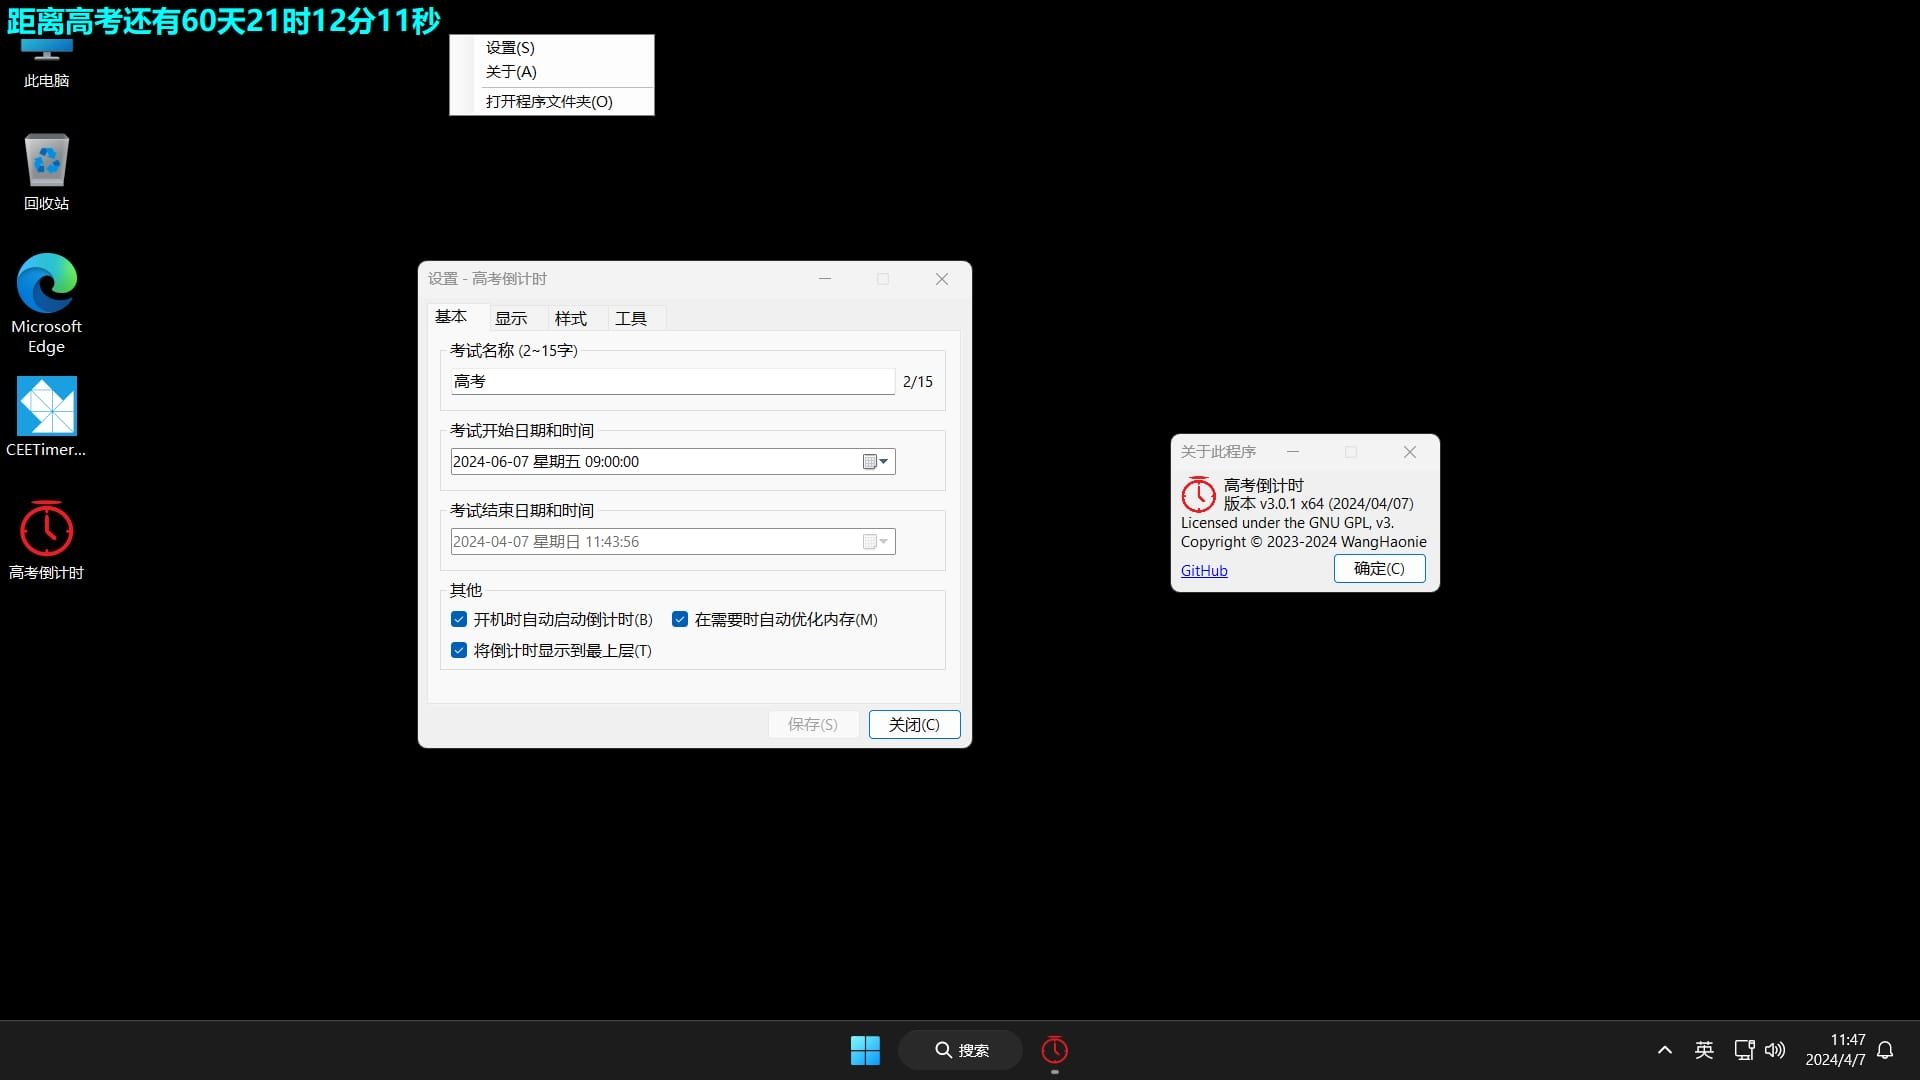
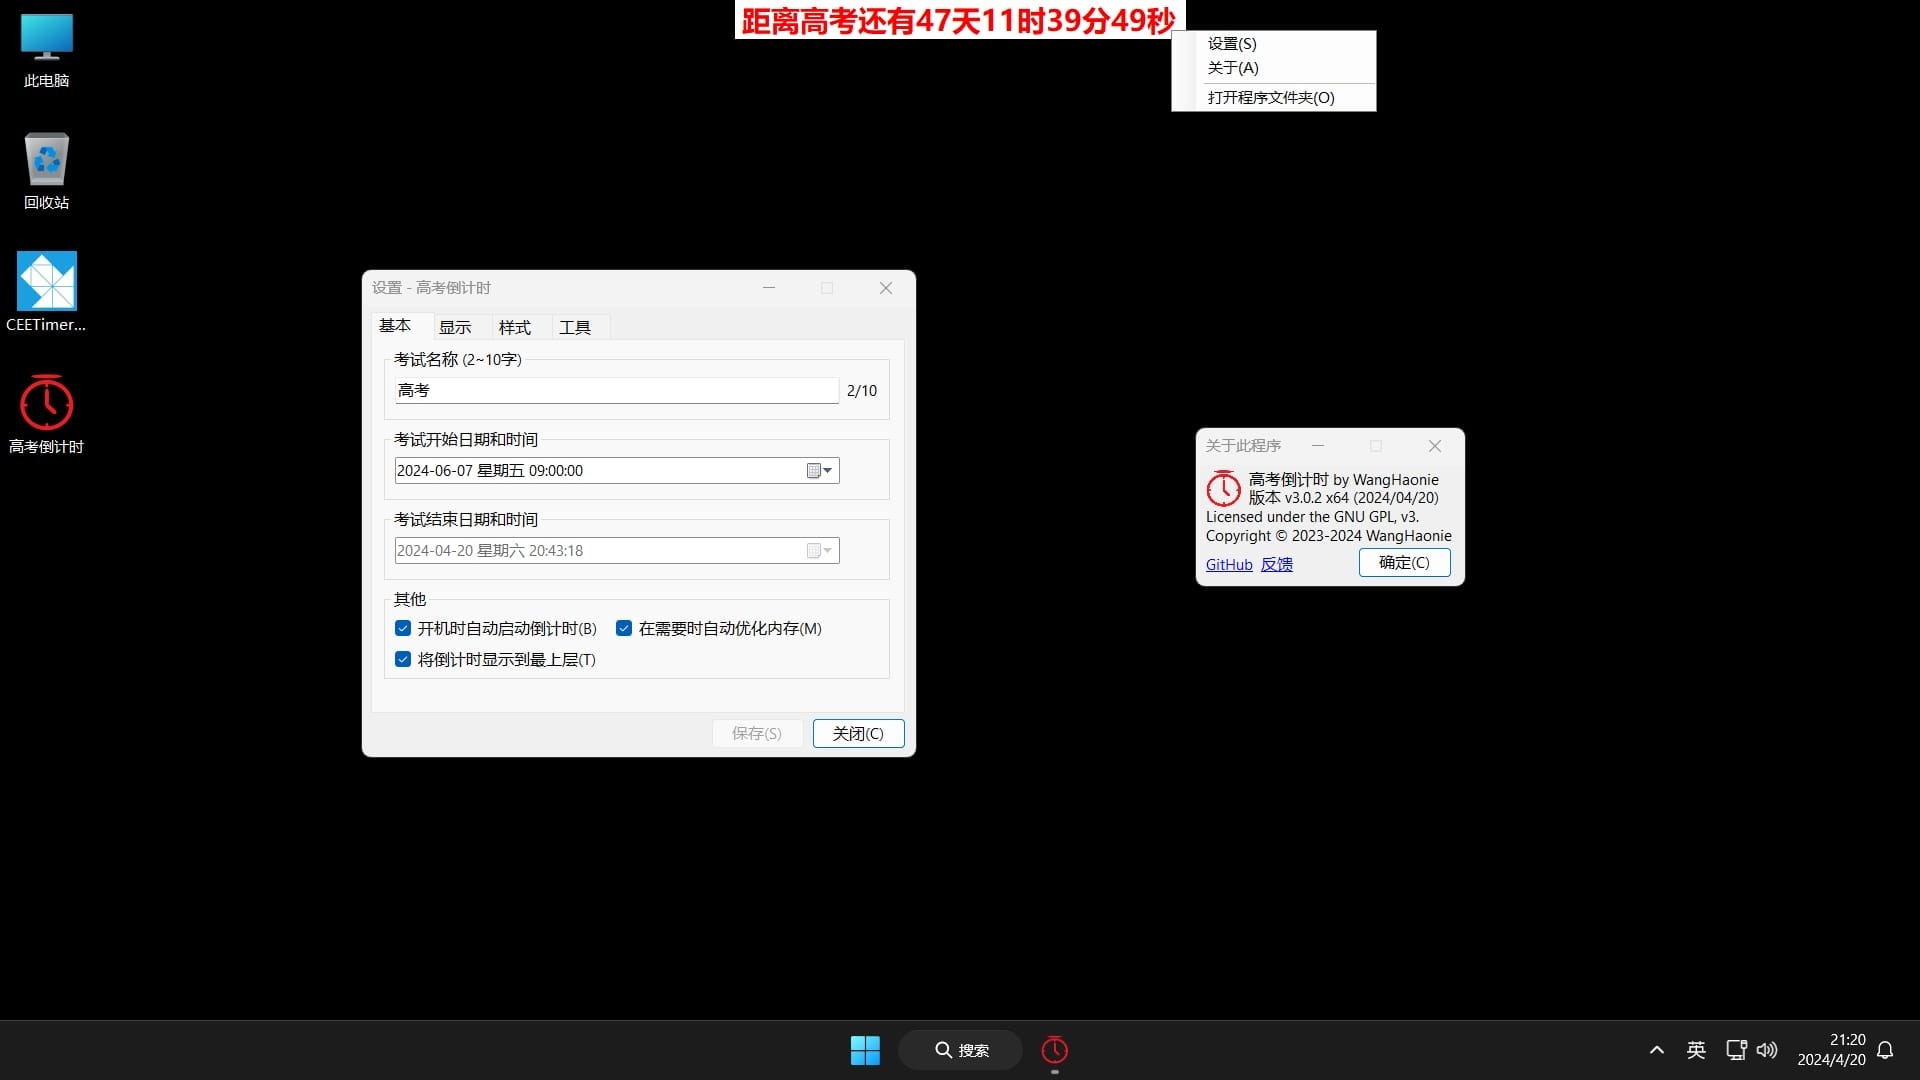
📢 发布了 v3.0.2

diff --git a/CEETimerCSharpWinForms/Modules/LaunchManager.cs b/CEETimerCSharpWinForms/Modules/LaunchManager.cs
@@ -14,8 +14,8 @@ namespace CEETimerCSharpWinForms.Modules
     {
         public static bool IsAdmin { get; private set; }
 
-        public const string AppVersion = "3.0.1";
-        public const string AppVersionText = $"版本 v{AppVersion} x64 (2024/04/07)";
+        public const string AppVersion = "3.0.2";
+        public const string AppVersionText = $"版本 v{AppVersion} x64 (2024/04/20)";
         public const string InfoMsg = "提示 - 高考倒计时";
         public const string WarnMsg = "警告 - 高考倒计时";
         public const string ErrMsg = "错误 - 高考倒计时";
